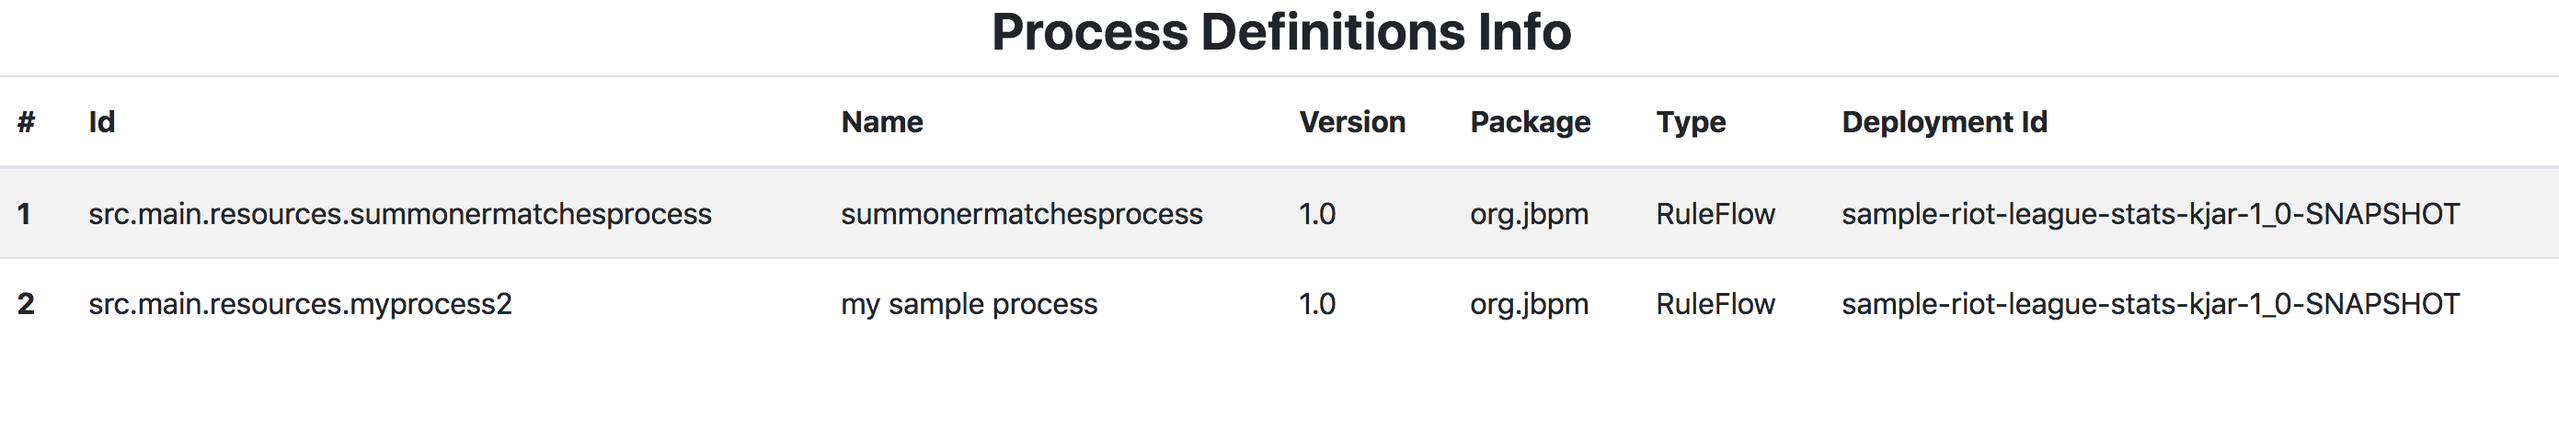
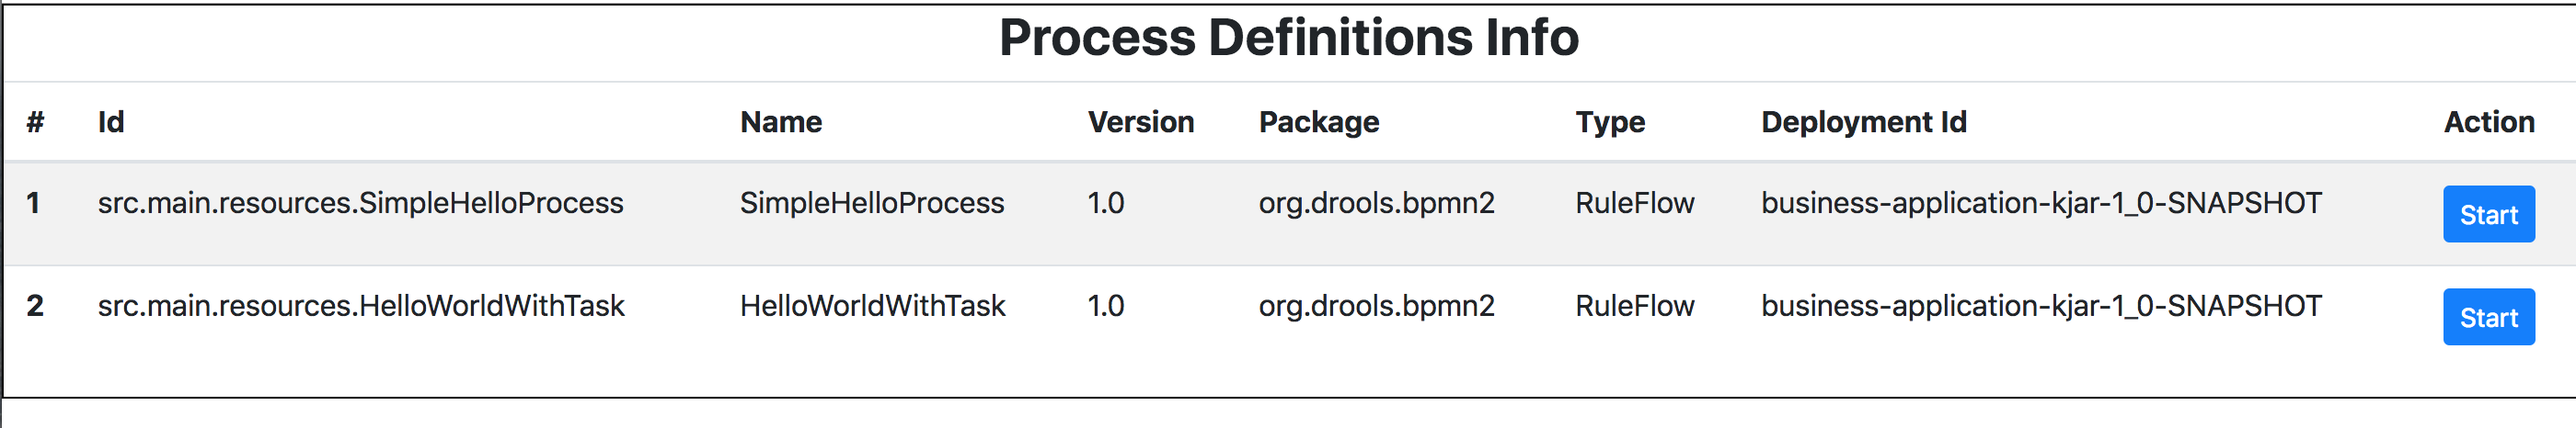
updated readme to add new things

diff --git a/README.md b/README.md
@@ -24,7 +24,7 @@ And that's it! You are now ready to start using the dialect in your Thymeleaf te
 
 # Using the dialect
 
-# Setting up your template html
+# Setting things up
 1. Kie Server dialect by default produces html which includes some boostrap style class names and js functions. In order for those to work
 you need to add the boostrap style and js and jquery to your page <head> section, for example:
 
@@ -32,6 +32,7 @@ you need to add the boostrap style and js and jquery to your page <head> section
 <head>
     <link rel="stylesheet" href="https://stackpath.bootstrapcdn.com/bootstrap/4.1.0/css/bootstrap.min.css">  
     <script src="https://code.jquery.com/jquery-3.3.1.min.js"></script>
+    <script src="https://cdnjs.cloudflare.com/ajax/libs/popper.js/1.11.0/umd/popper.min.js"></script>
     <script src="https://stackpath.bootstrapcdn.com/bootstrap/4.1.0/js/bootstrap.min.js"></script>
 </head>
 ```
@@ -44,6 +45,30 @@ page tag (note this step is optional):
 ```html
 <html xmlns:th="http://www.thymeleaf.org" xmlns:kieserver="http://jbpm.org/">
 ```
+3. In order to display the process and task forms the dialect uses inline frames. This is by default disabled 
+in your business application and you have to enable it. 
+To enable edit your DefaultWebSecurityConfig.java file adding
+
+```java
+.headers().frameOptions().sameOrigin()
+```
+
+So your entire configure method can look like:
+
+```java
+@Override
+    protected void configure(HttpSecurity http) throws Exception {
+        http
+                .csrf().disable()
+                .authorizeRequests()
+                .antMatchers("/rest/*").authenticated()
+                .and()
+                .httpBasic()
+                .and()
+                .headers().frameOptions().sameOrigin();
+    }
+```
+
 
 # Display all process definitions
 In the body section of your template add:
@@ -55,8 +80,10 @@ This will generate a table on your page displaying all processes that are define
 
 ![Sample process definitions](sampleprocessdefs.png?raw=true)
 
-Once more processes are registered or unregistered a simple page-refresh will update 
-this table for you. 
+You can start a process intsance by clicking on the "Start" action button. This will open the process form where you
+can enter in process data defined in the form and start the business process.
+
+![Sample start business process](samplestartprocess.png?raw=true)
 
 # Display deployment unit info
 In the body section of your template add:
@@ -85,8 +112,23 @@ This will display info table with  all available process instances:
 
 ![Sample deployment unit info](sampleprocessinstances.png?raw=true)
 
-If you process instance is active the Active Tasks column will be populated with the 
-Task names.
+If the task instance contains Tasks that can be worked on will be displayed in the "Work on Tasks" column. 
+Each is a link which when clicked will open up the task form modal which includes the task form and buttons with which
+you can advance the user task. 
+
+![Sample work on task](sampleworkontask.png?raw=true)
+
+# Display process instances image
+In the body section of your template add:
+```html
+<kieserver:processimages/>
+```
+
+This will display a dropdown table with a list of process instances. If there are no process instances
+available the dropdown will be empty. You an pick a process instance id from the dropdown which will then display
+the annotated process instance image, for example:
+
+![Sample work on task](sampleprocessimage.png?raw=true)
 
 
 # Starting a business process
